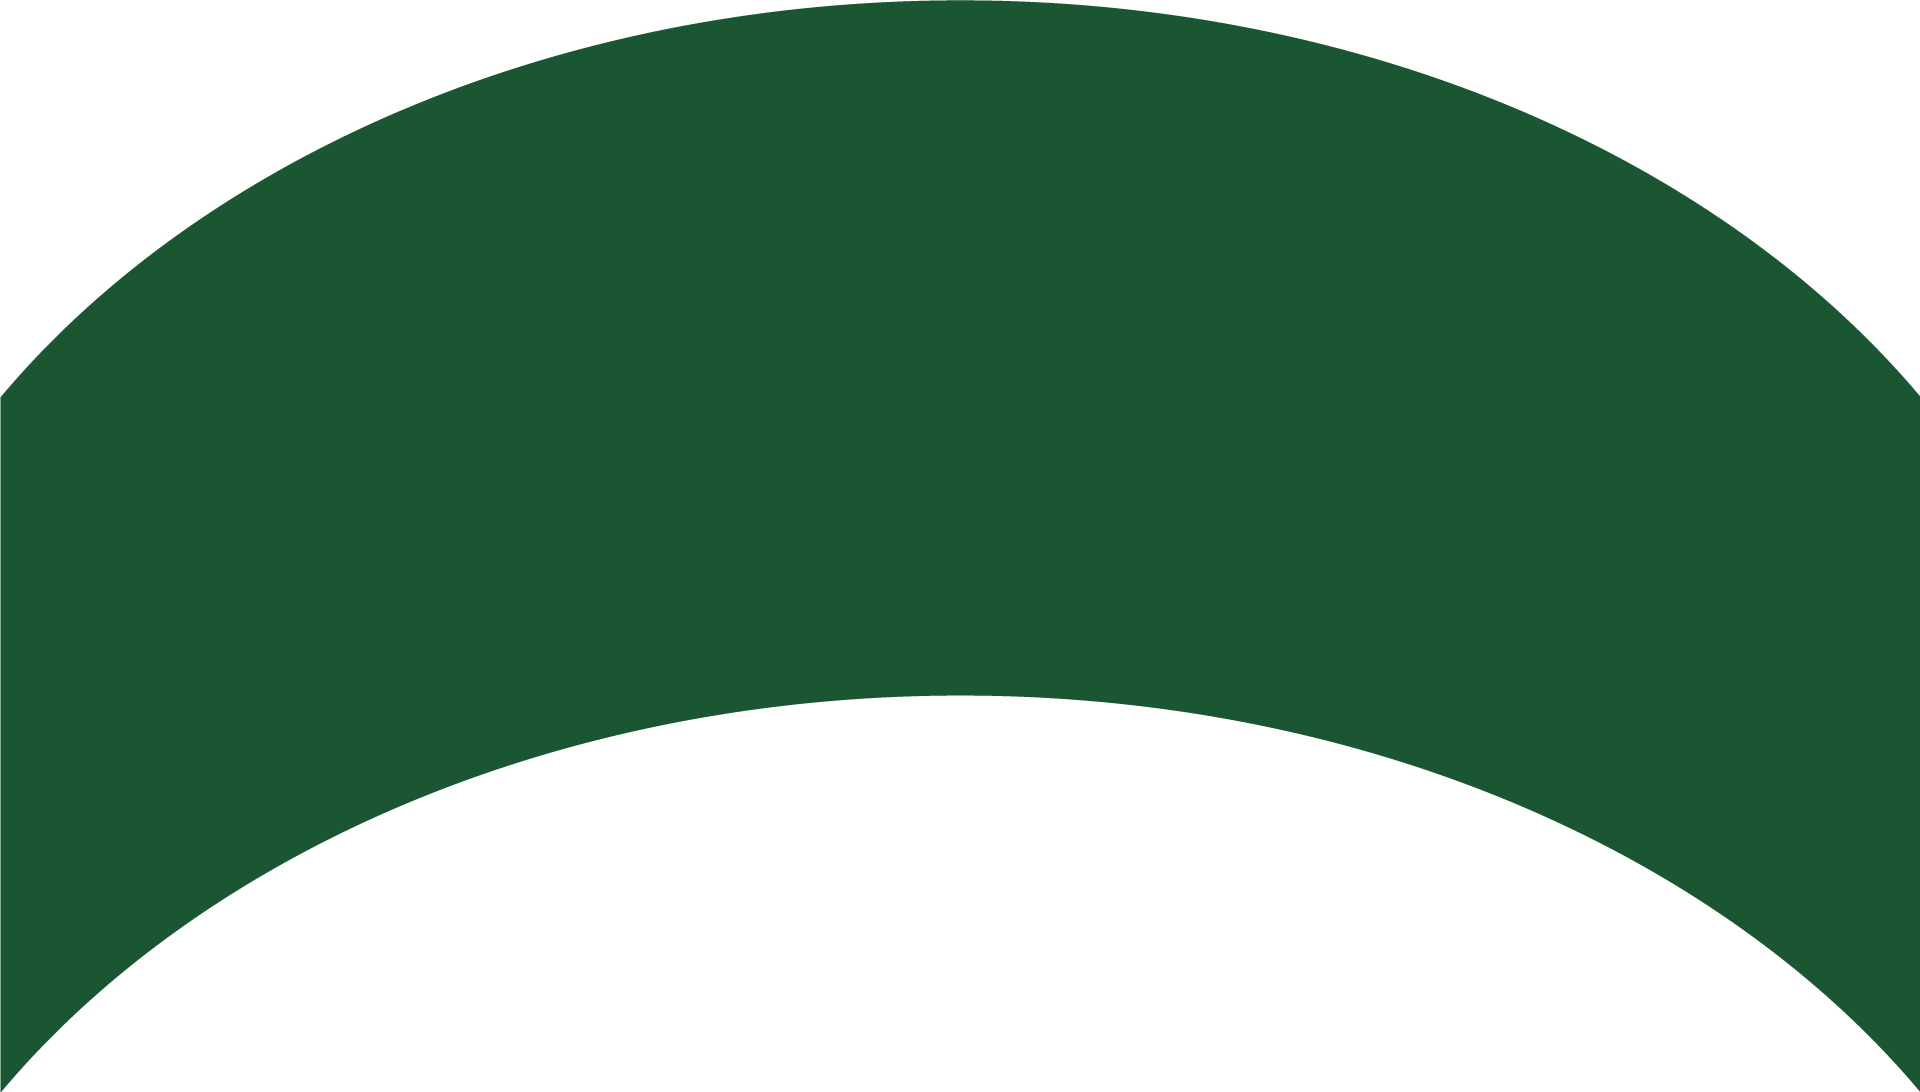
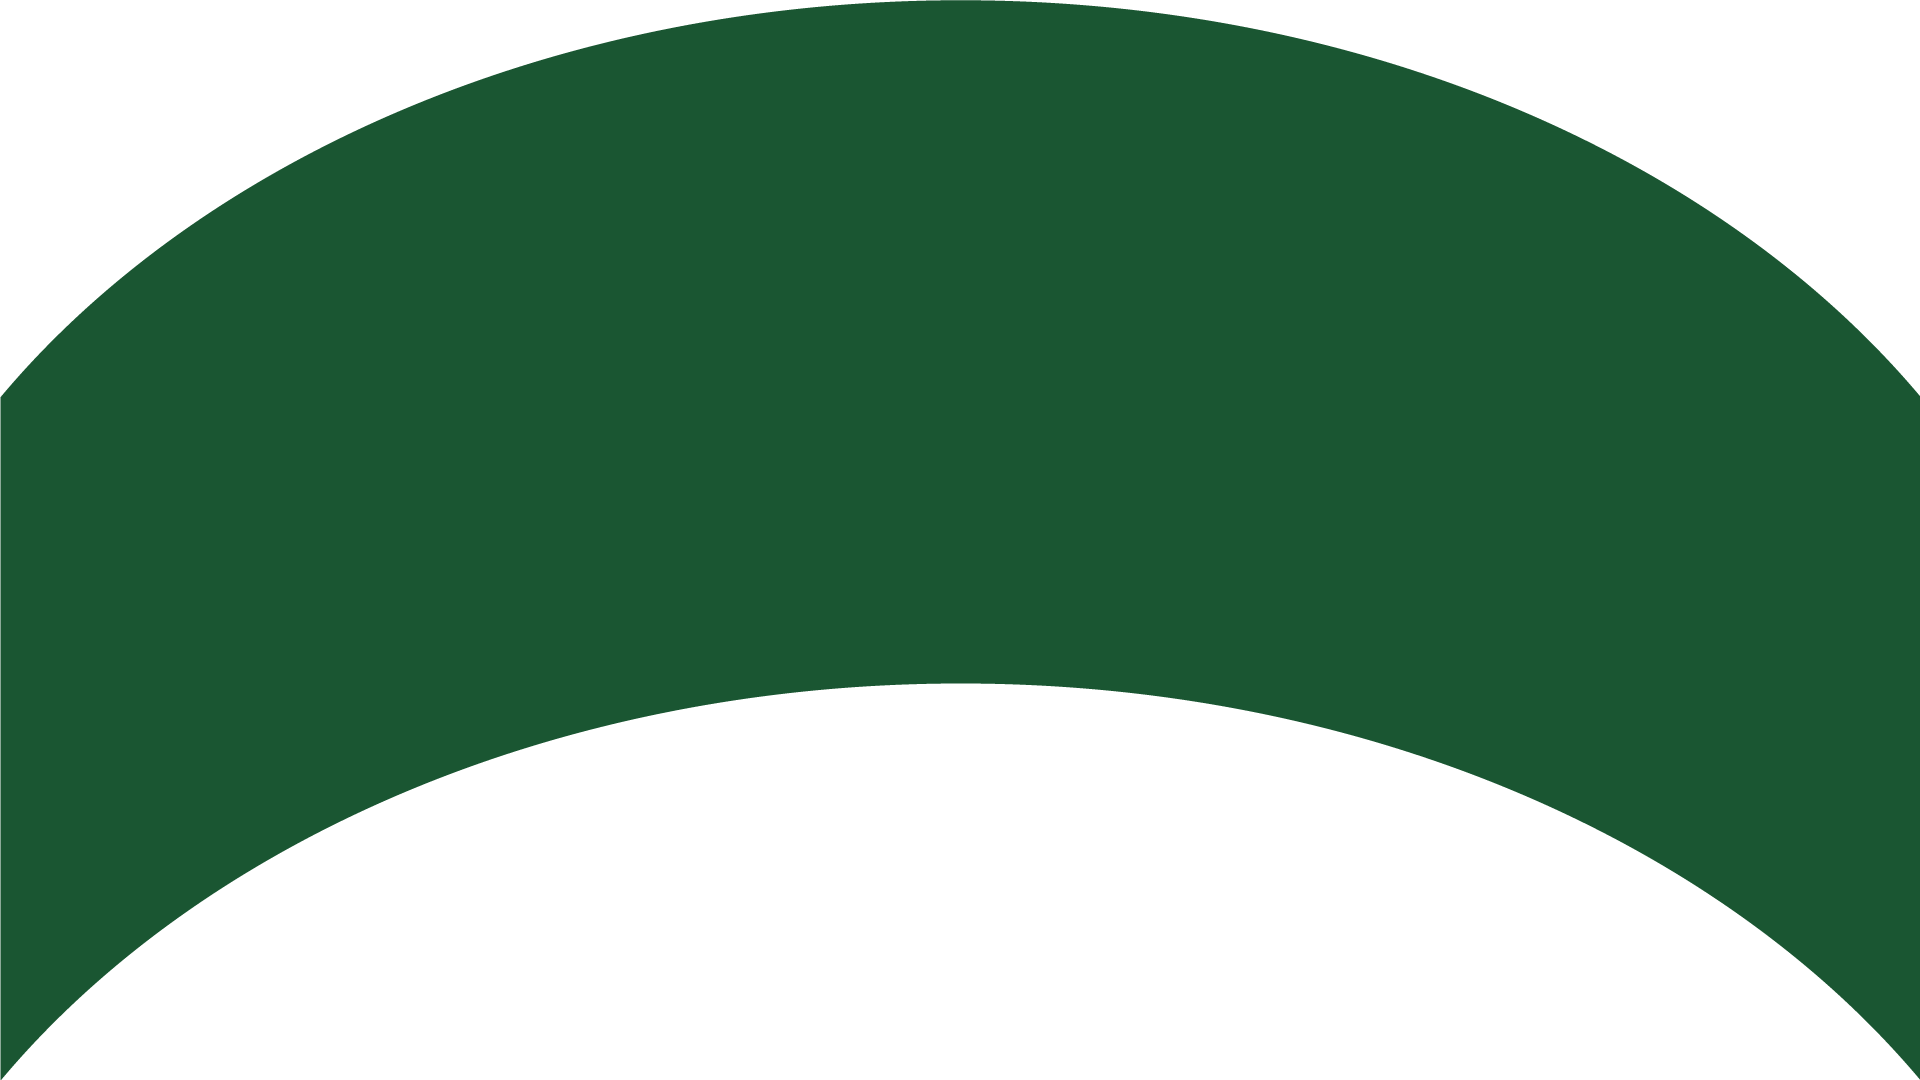
mission bg updated

diff --git a/src/app/_components/mission.tsx b/src/app/_components/mission.tsx
@@ -2,33 +2,36 @@ import React from "react";
 import Typewriter from "./typwriter";
 
 const Mission = () => {
-  const backgroundImageUrl = "/assets/blog/header.png";
+  const backgroundImageUrl = "/assets/blog/header.svg";
+  // style={{ backgroundImage: `url(${backgroundImageUrl})` }}
   return (
-    <div className="min-h-screen w-full flex flex-col justify-around items-center bg-auto bg-center bg-no-repeat" style={{ backgroundImage: `url(${backgroundImageUrl})` }}>
-    <div className="flex flex-col items-center justify-center text-center text-white w-3/4">
-      <h2 className="leading-1 md:leading-[1.5] text-2xl md:text-6xl font-medium md:font-bold">THE JEAP MISSION</h2>
-      <p className="text-lg md:text-3xl">Currently, over a hundred health emergencies occur annually in Africa, disrupting the growth and well-being of communities.</p>
-      <p className="text-lg md:text-3xl">
-        With pervasively weak health systems and close to one-third of the world's refugee population residing in Africa, most African countries are one health emergency away from social and
-        economic collapse.
-      </p>
+    <div className="h-[720px] md:h-[1024px] flex flex-col items-center justify-start md:justify-center bg-contain bg-no-repeat md:my-4 bg-mb-curve md:bg-lg-curve " >
+      <div className="basis-2/3 md:basis-2/3 flex flex-col items-center justify-start md:justify-center gap-2 md:gap-8 text-center text-white w-4/5 md:w-3/4 pt-8 md:p-4">
+        <h2 className="leading-1 md:leading-[1.5] text-2xl md:text-6xl font-bold md:font-bold">THE JEAP MISSION</h2>
+        <p className="flex flex-col gap-4 text-md md:text-2xl">
+          <span>Currently, over a hundred health emergencies occur annually in Africa, disrupting the growth and well-being of communities.</span>
+          <span>
+            With pervasively weak health systems and close to one-third of the world's refugee population residing in Africa, most African countries are one health emergency away from social and
+            economic collapse.
+          </span>
+        </p>
+      </div>
+      <div className="basis-1/3 md:basis-1/3 text-center w-2/3 md:w-1/3 text-wrap">
+        <p className="text-lg md:text-3xl">
+          Of the
+          <strong className="font-bold ml-1">
+            <Typewriter text="25 countries" delay={500} infinite />
+          </strong>
+        </p>
+        <p className="text-lg md:text-3xl"> most susceptible to infectious outbreaks globally,</p>
+        <p className="text-lg md:text-3xl">
+          <strong className="font-bold">
+            <Typewriter text="22 are located in Africa" delay={500} infinite />
+          </strong>
+          .
+        </p>
+      </div>
     </div>
-    <div className="text-center w-2/3 md:w-1/3 text-wrap">
-      <p className="text-lg md:text-3xl">
-        Of the
-        <strong className="font-bold ml-1">
-          <Typewriter text="25 countries" delay={500} infinite />
-        </strong>
-      </p>
-      <p className="text-lg md:text-3xl"> most susceptible to infectious outbreaks globally,</p>
-      <p className="text-lg md:text-3xl">
-        <strong className="font-bold">
-          <Typewriter text="22 are located in Africa" delay={500} infinite />
-        </strong>
-        .
-      </p>
-    </div>
-  </div>
   );
 };
 

diff --git a/tailwind.config.ts b/tailwind.config.ts
@@ -15,6 +15,8 @@ const config: Config = {
         "gradient-radial": "radial-gradient(var(--tw-gradient-stops))",
         "gradient-conic":
           "conic-gradient(from 180deg at 50% 50%, var(--tw-gradient-stops))",
+        "mb-curve" : "url(/assets/blog/mb-curve.svg)",
+        "lg-curve" : "url(/assets/blog/header.svg)",
       },
       colors: {
         "accent-1": "#FAFAFA",
